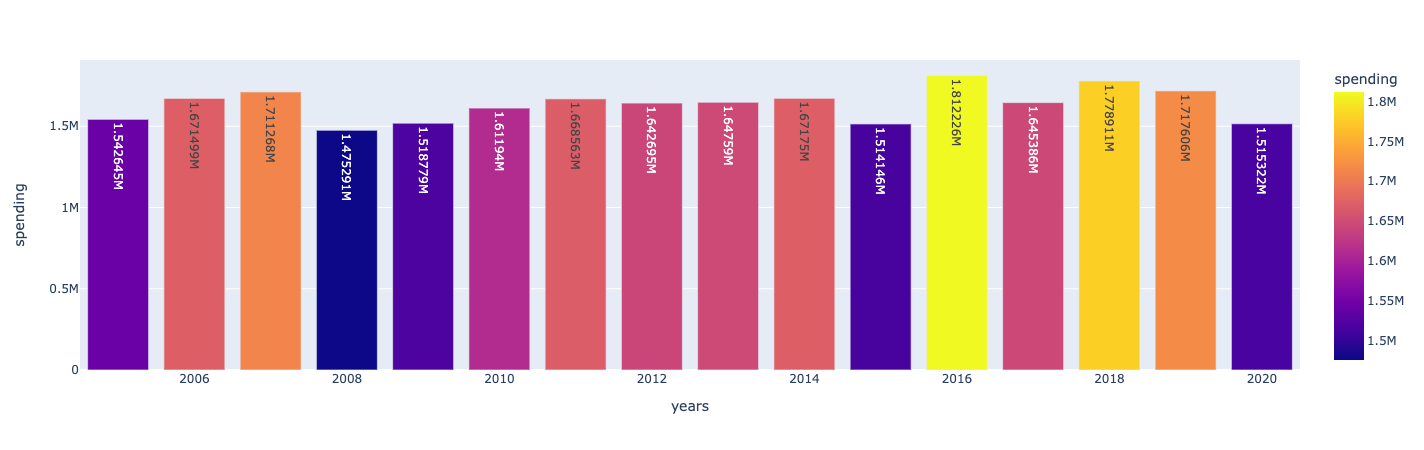
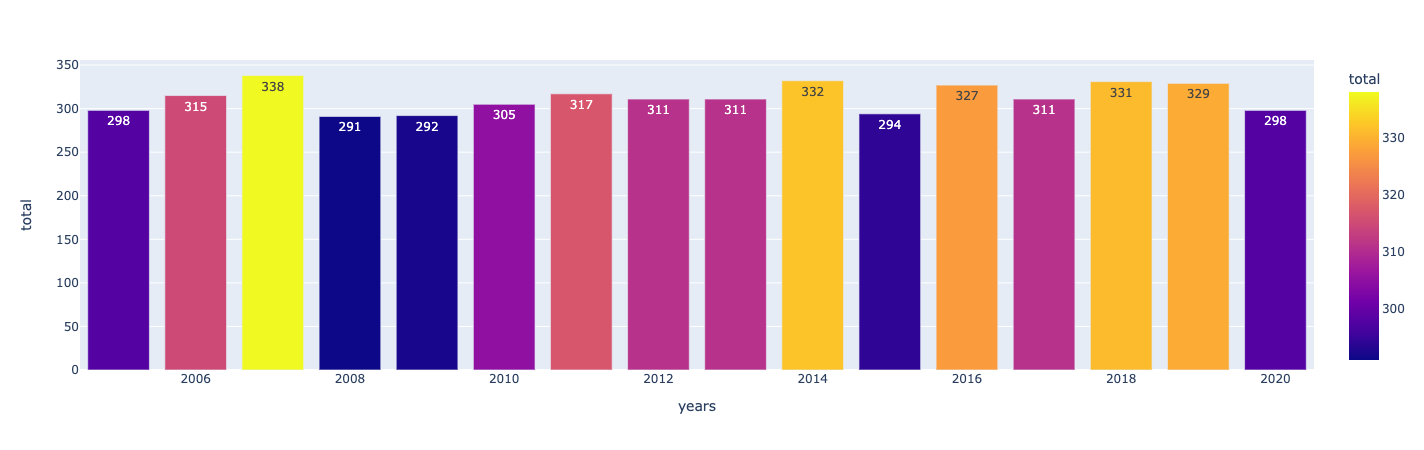
lista ativ.prati 08, correcao das inversoes de ativideas de plotar grafico 1 e 2, status finalizadas.

diff --git a/ATIV_PRAT_08/grafico_02.py b/ATIV_PRAT_08/grafico_02.py
@@ -1,0 +1,48 @@
+# Enunciado:
+# 2) Exiba um gráfico que mostre a quantidade total de compras
+# agrupadas por anos.
+
+from dash import Dash, html, dcc
+import plotly.express as px
+import pandas as pd
+from functions import conv_data_files
+
+# chamada da funcao de leitura de arquivo
+data_frame = conv_data_files.init_app()
+
+total_speding_for_year = []
+years = []
+
+for data in data_frame:
+    if data['ano'] in years:
+        for info in total_speding_for_year:
+            if info[0] == data['ano']:
+                info[1] += 1
+    else:
+        years.append(data['ano'])
+        total_speding_for_year.append([data['ano'], 1])
+
+total_speding_for_year.sort()
+
+app = Dash(__name__)
+
+df = pd.DataFrame({
+    'years': [y[0] for y in total_speding_for_year],
+    'total': [s[1] for s in total_speding_for_year]
+})
+
+fig = px.bar(df, x='years', y='total', color='total', text_auto=True)
+
+app.layout = html.Div(children=[
+    html.H3(children='''
+      Exiba um gráfico que mostre a quantidade total de compras por anos.
+    '''),
+
+    dcc.Graph(
+        id='example-graph',
+        figure=fig
+    )
+])
+
+if __name__ == '__main__':
+    app.run_server(debug=True)

diff --git a/ATIV_PRAT_08/grafico_01.py b/ATIV_PRAT_08/grafico_01.py
@@ -36,7 +36,7 @@ fig = px.bar(df, x='years', y='spending', color='spending', text_auto=True)
 
 app.layout = html.Div(children=[
     html.H3(children='''
-      Exiba um gráfico que mostre a quantidade total de compras agrupadas por anos.
+      Exiba um gráfico que mostre a quantidade total de gastos por anos.
     '''),
 
     dcc.Graph(
